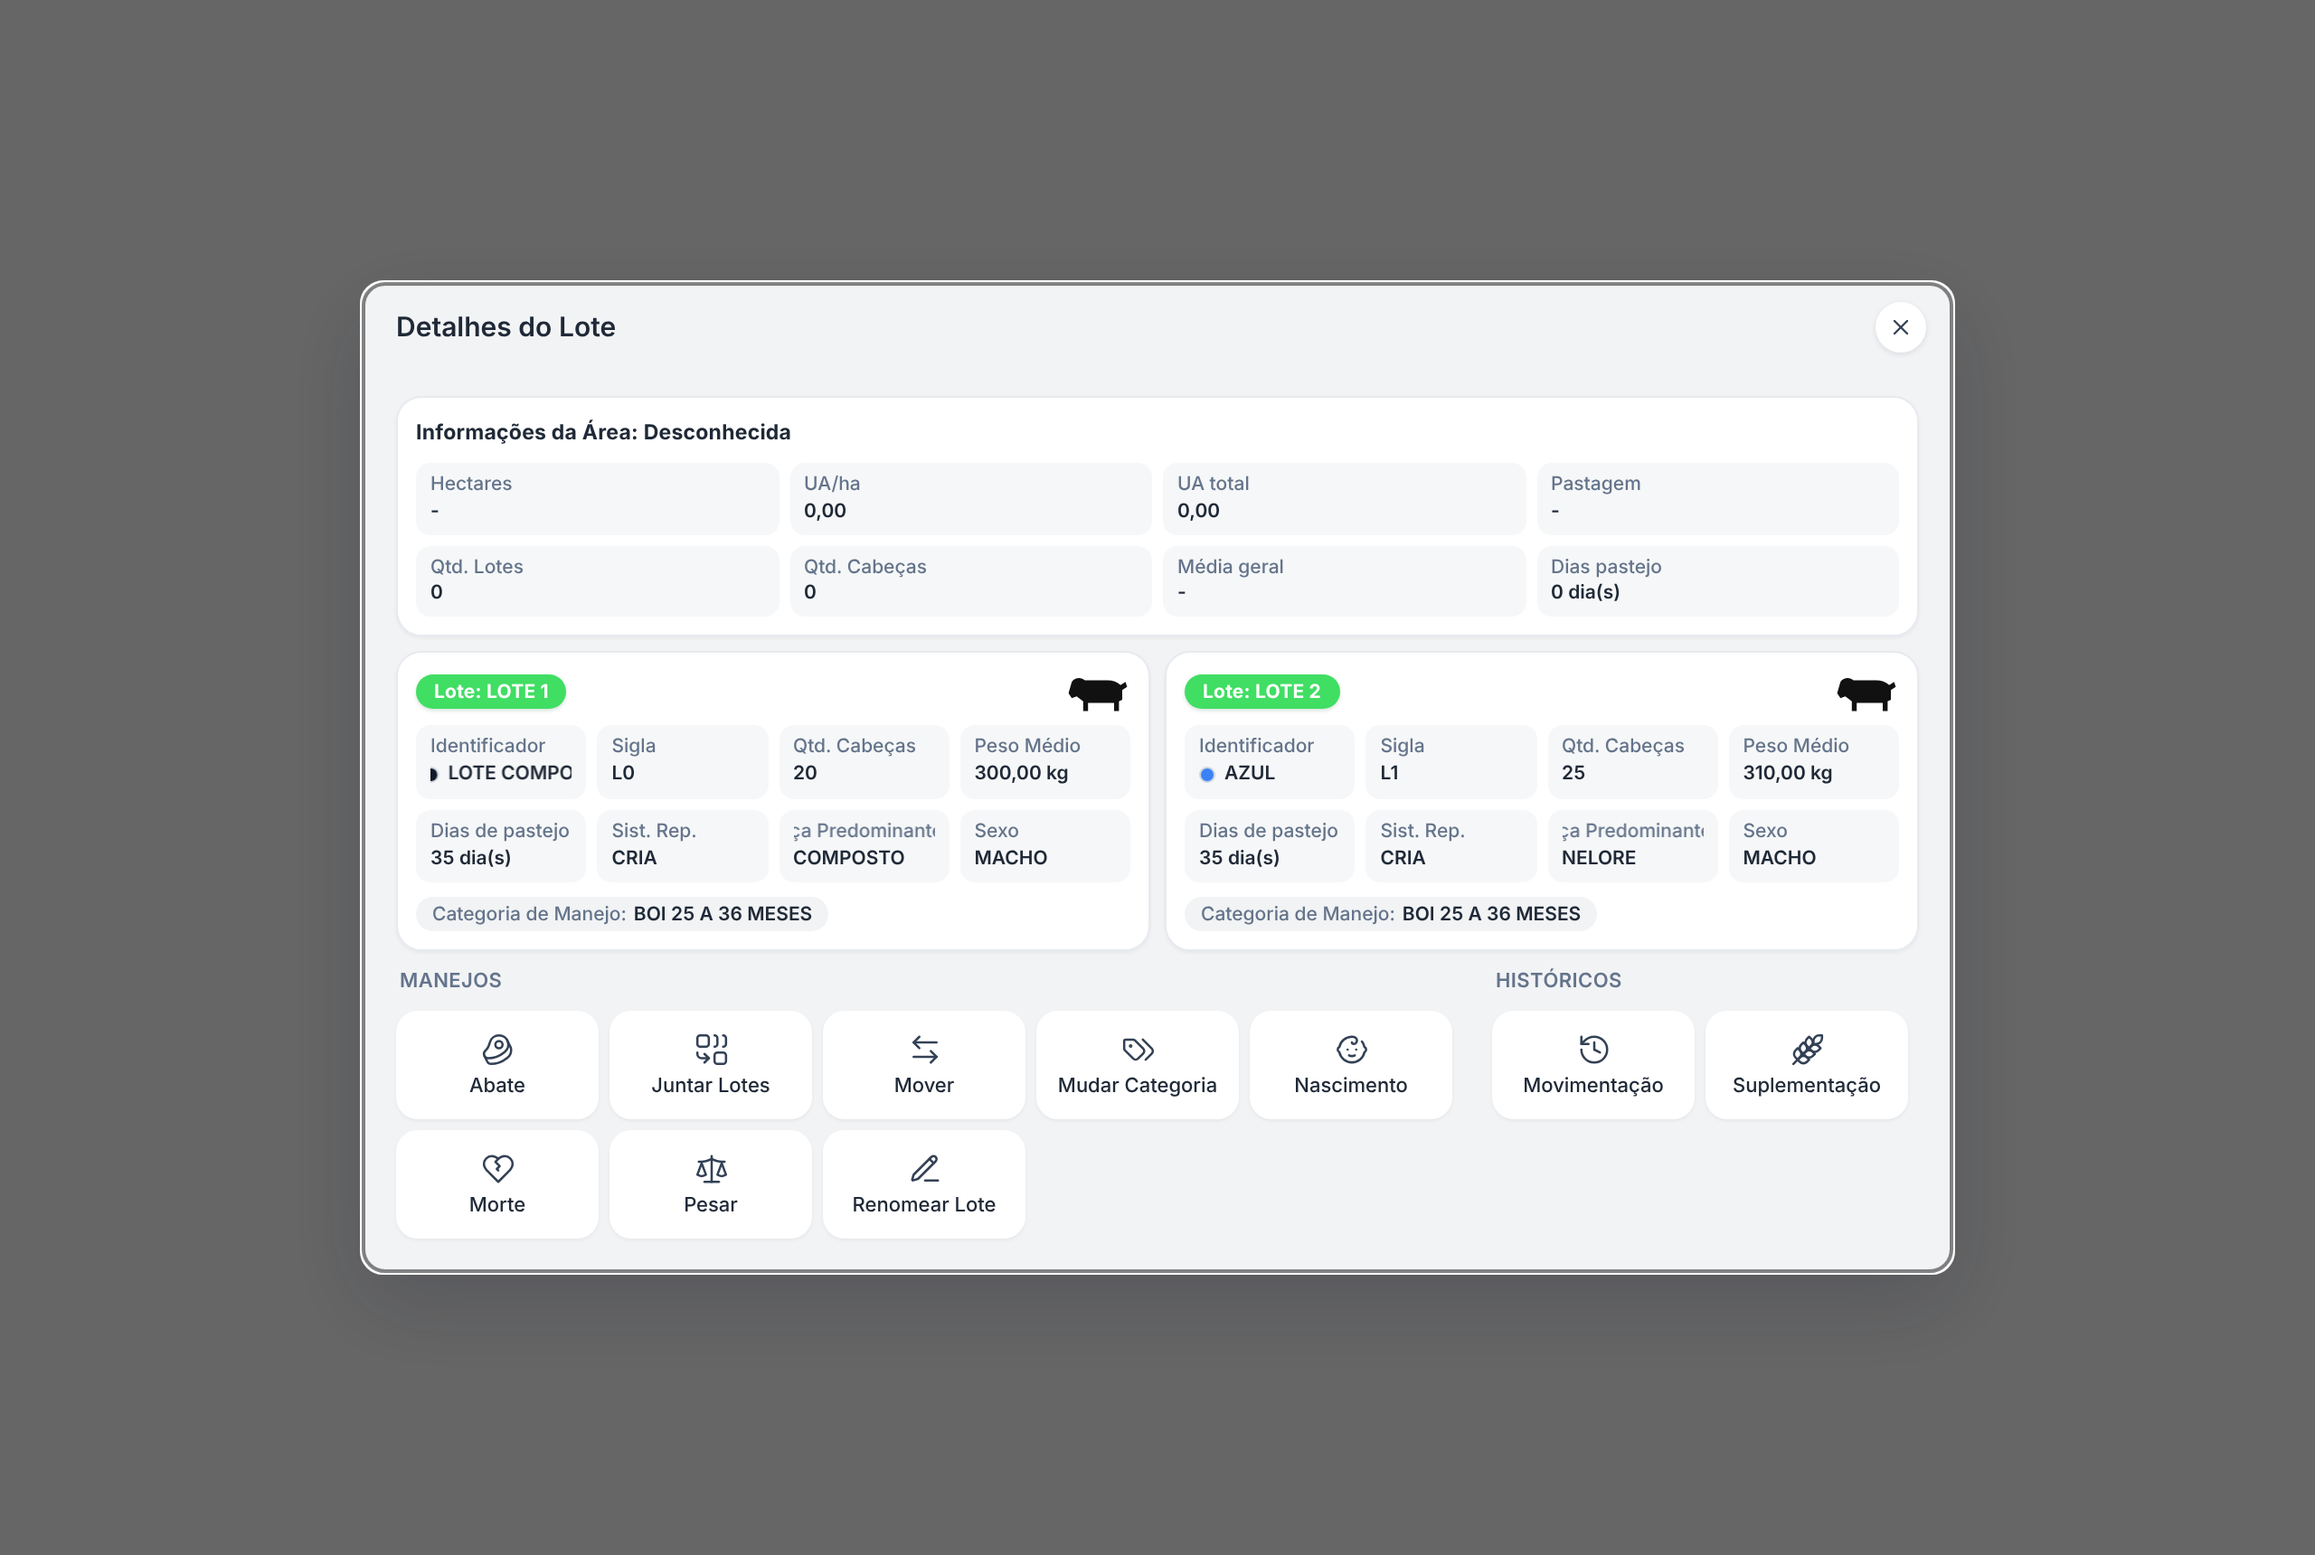
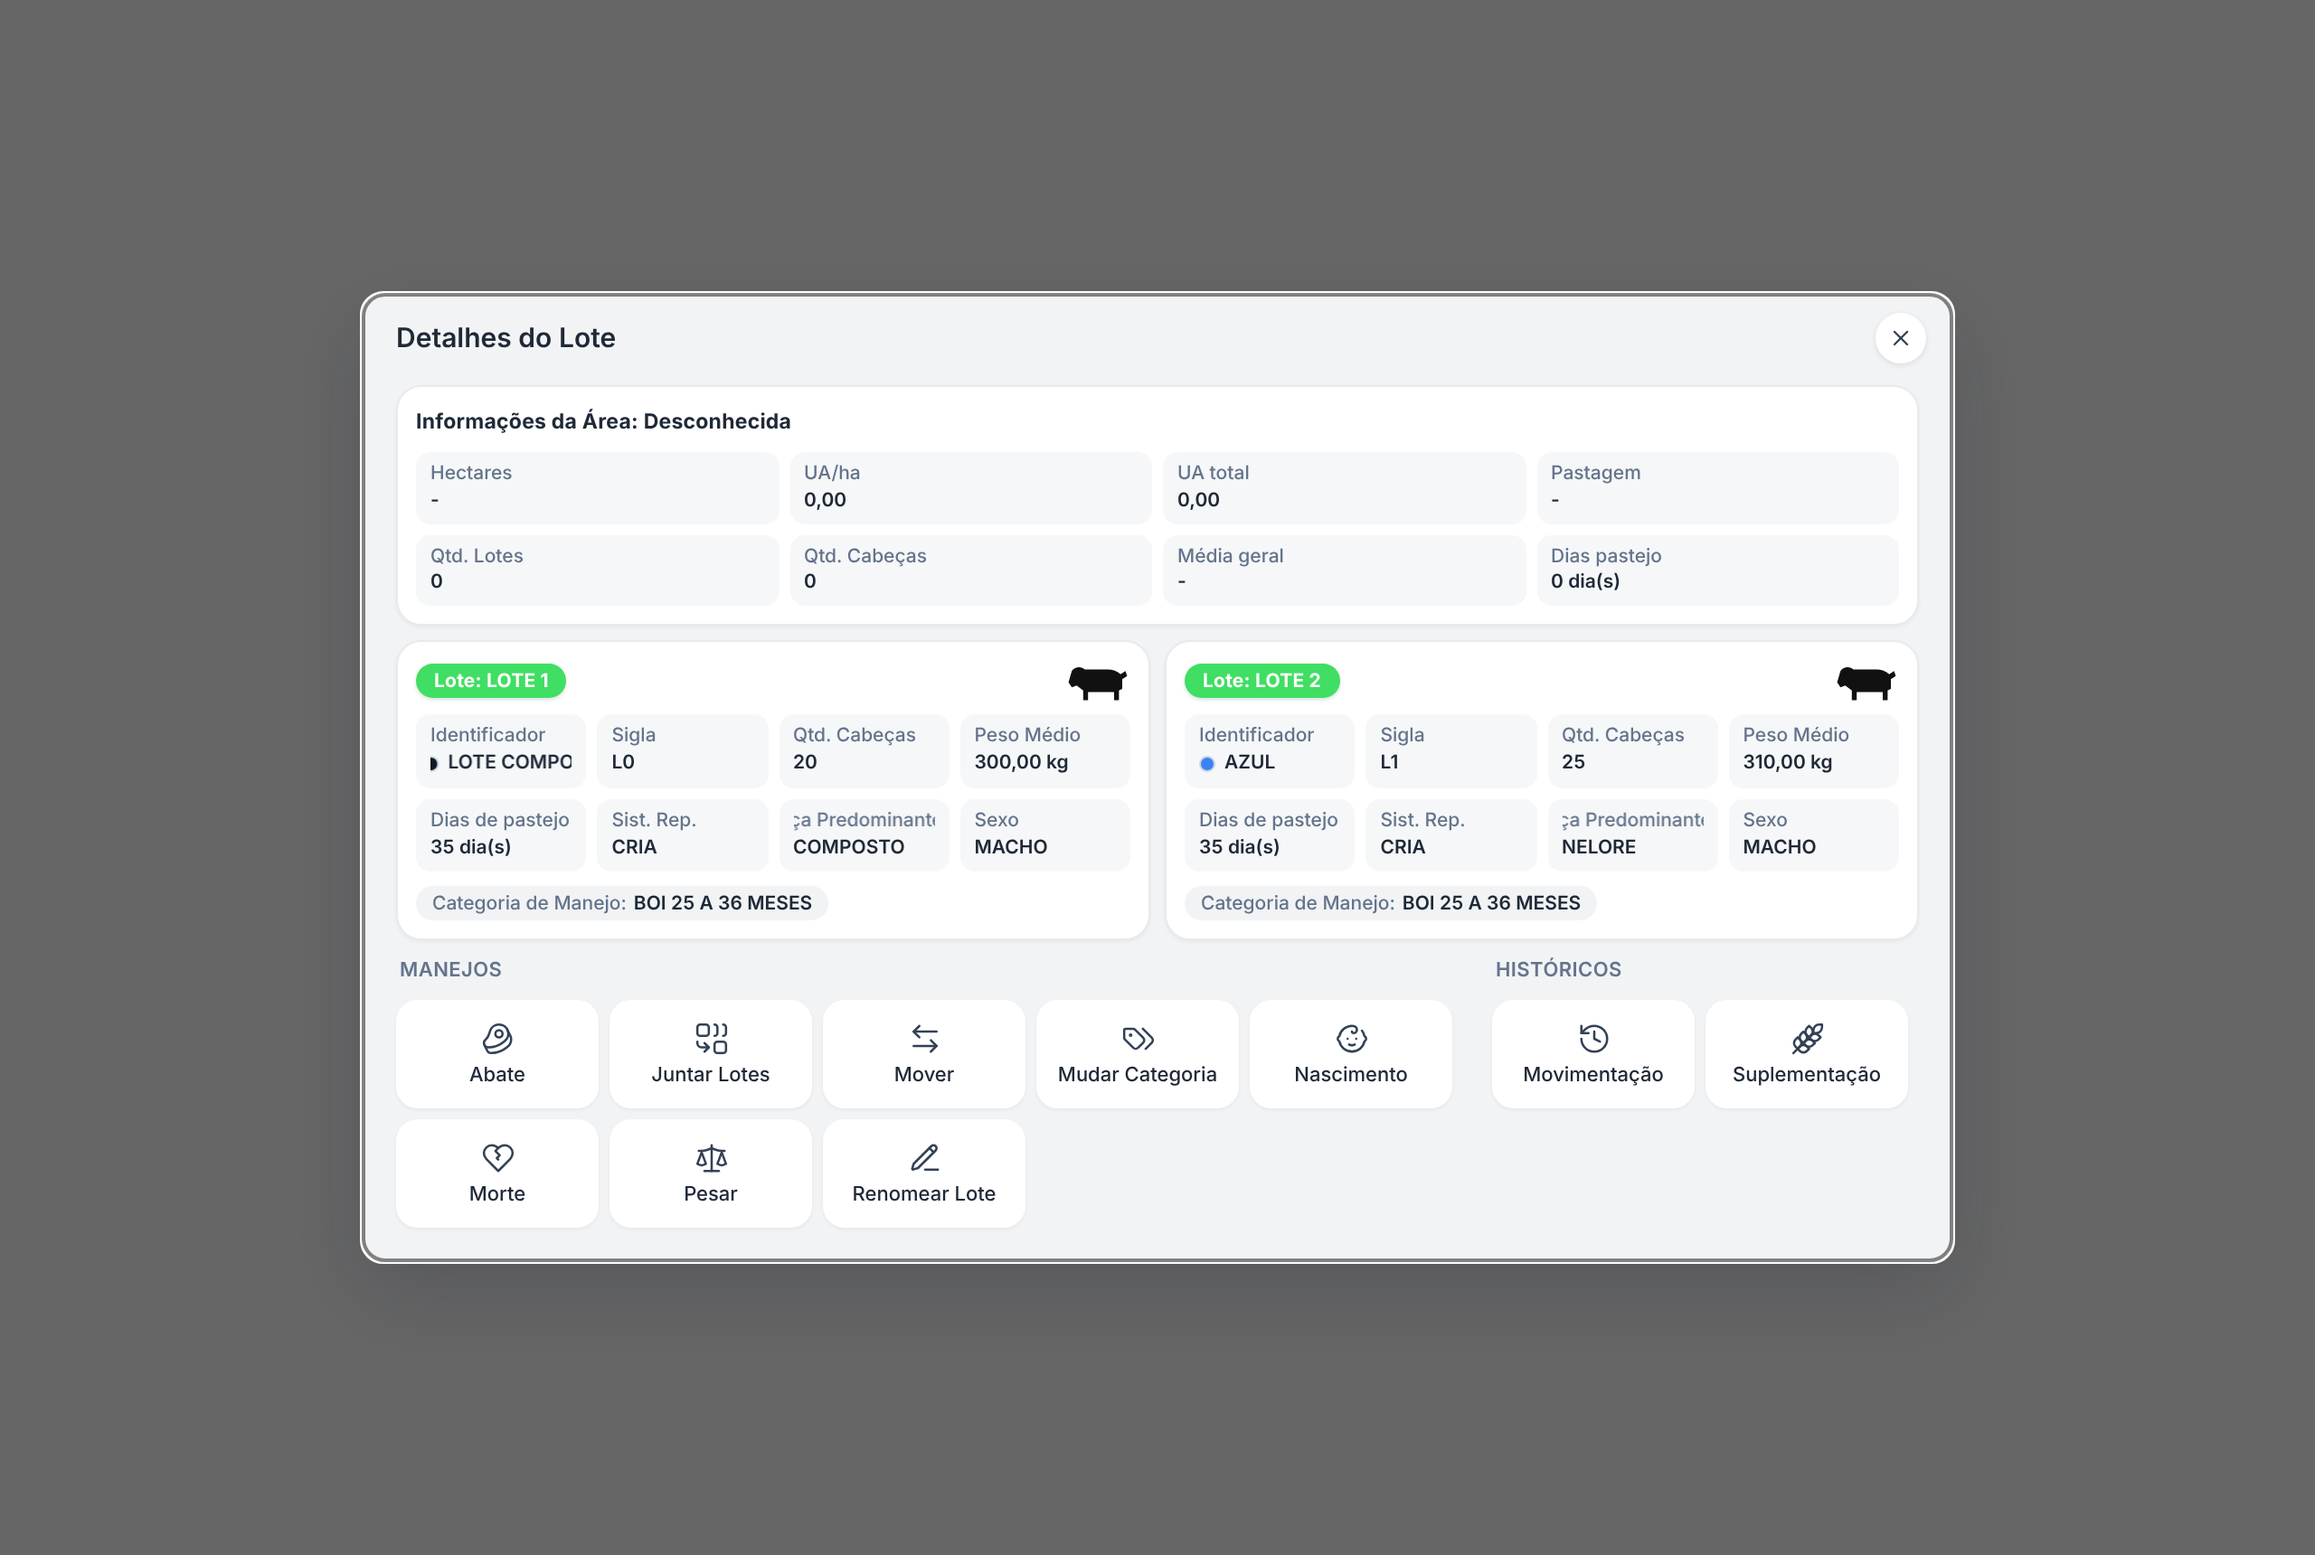
Detalhes do Lote: menos espaço entre o título e o primeiro cartão (D-PROD-125)
Claude-Session: https://claude.ai/code/session_01UazgFfaVrfzGvoj5VQP7sQ

diff --git a/src/styles/lancamento-lote.css b/src/styles/lancamento-lote.css
@@ -869,6 +869,11 @@
   border-bottom: 0;
 }
 
+/* Menos espaço entre o título e o primeiro cartão (D-PROD-125) */
+.mk-ll-dlg.is-desktop:has(> .mk-ll > .mk-dl) > .mk-ll {
+  padding-top: 2px;
+}
+
 .mk-ll-dlg.is-desktop:has(> .mk-ll > .mk-dl) .mk-ll-dlg__acoes.cadastro-b1 .tb-btn.tb-btn-gray.mg-act-cancelar:not(#mk-padrao) {
   background: #fff !important;
   box-shadow: 0 1px 3px rgba(15, 23, 42, 0.1) !important;

diff --git a/docs/engineering/UX-MOBILE-V2-REPORT.md b/docs/engineering/UX-MOBILE-V2-REPORT.md
@@ -273,7 +273,7 @@ Teste `notificacoesConfirmacoes`: a promessa do `confirmar`, o aviso de bloqueio
 
 ### V18b — cabeçalho cinza, ✕ branco, sub-ícone maior, fechar só pelo ✕, identificador do mapa (D-PROD-125)
 
-- **Cabeçalho:** o do desktop fica cinza, sem a faixa branca, com o ✕ branco (v18-03).
+- **Cabeçalho:** o do desktop fica cinza, sem a faixa branca, com o ✕ branco e menos espaço até o primeiro cartão (v18-03).
 - **Sub-ícone:** passa a 36 px sem aumentar a linha (a linha segue com 22 px, medida no harness).
 - **Fechar:**
   - Desktop: o clique fora e o Esc não fecham mais; só o ✕ fecha (harness: o clique fora e o Esc deixam aberto, o ✕ fecha).
